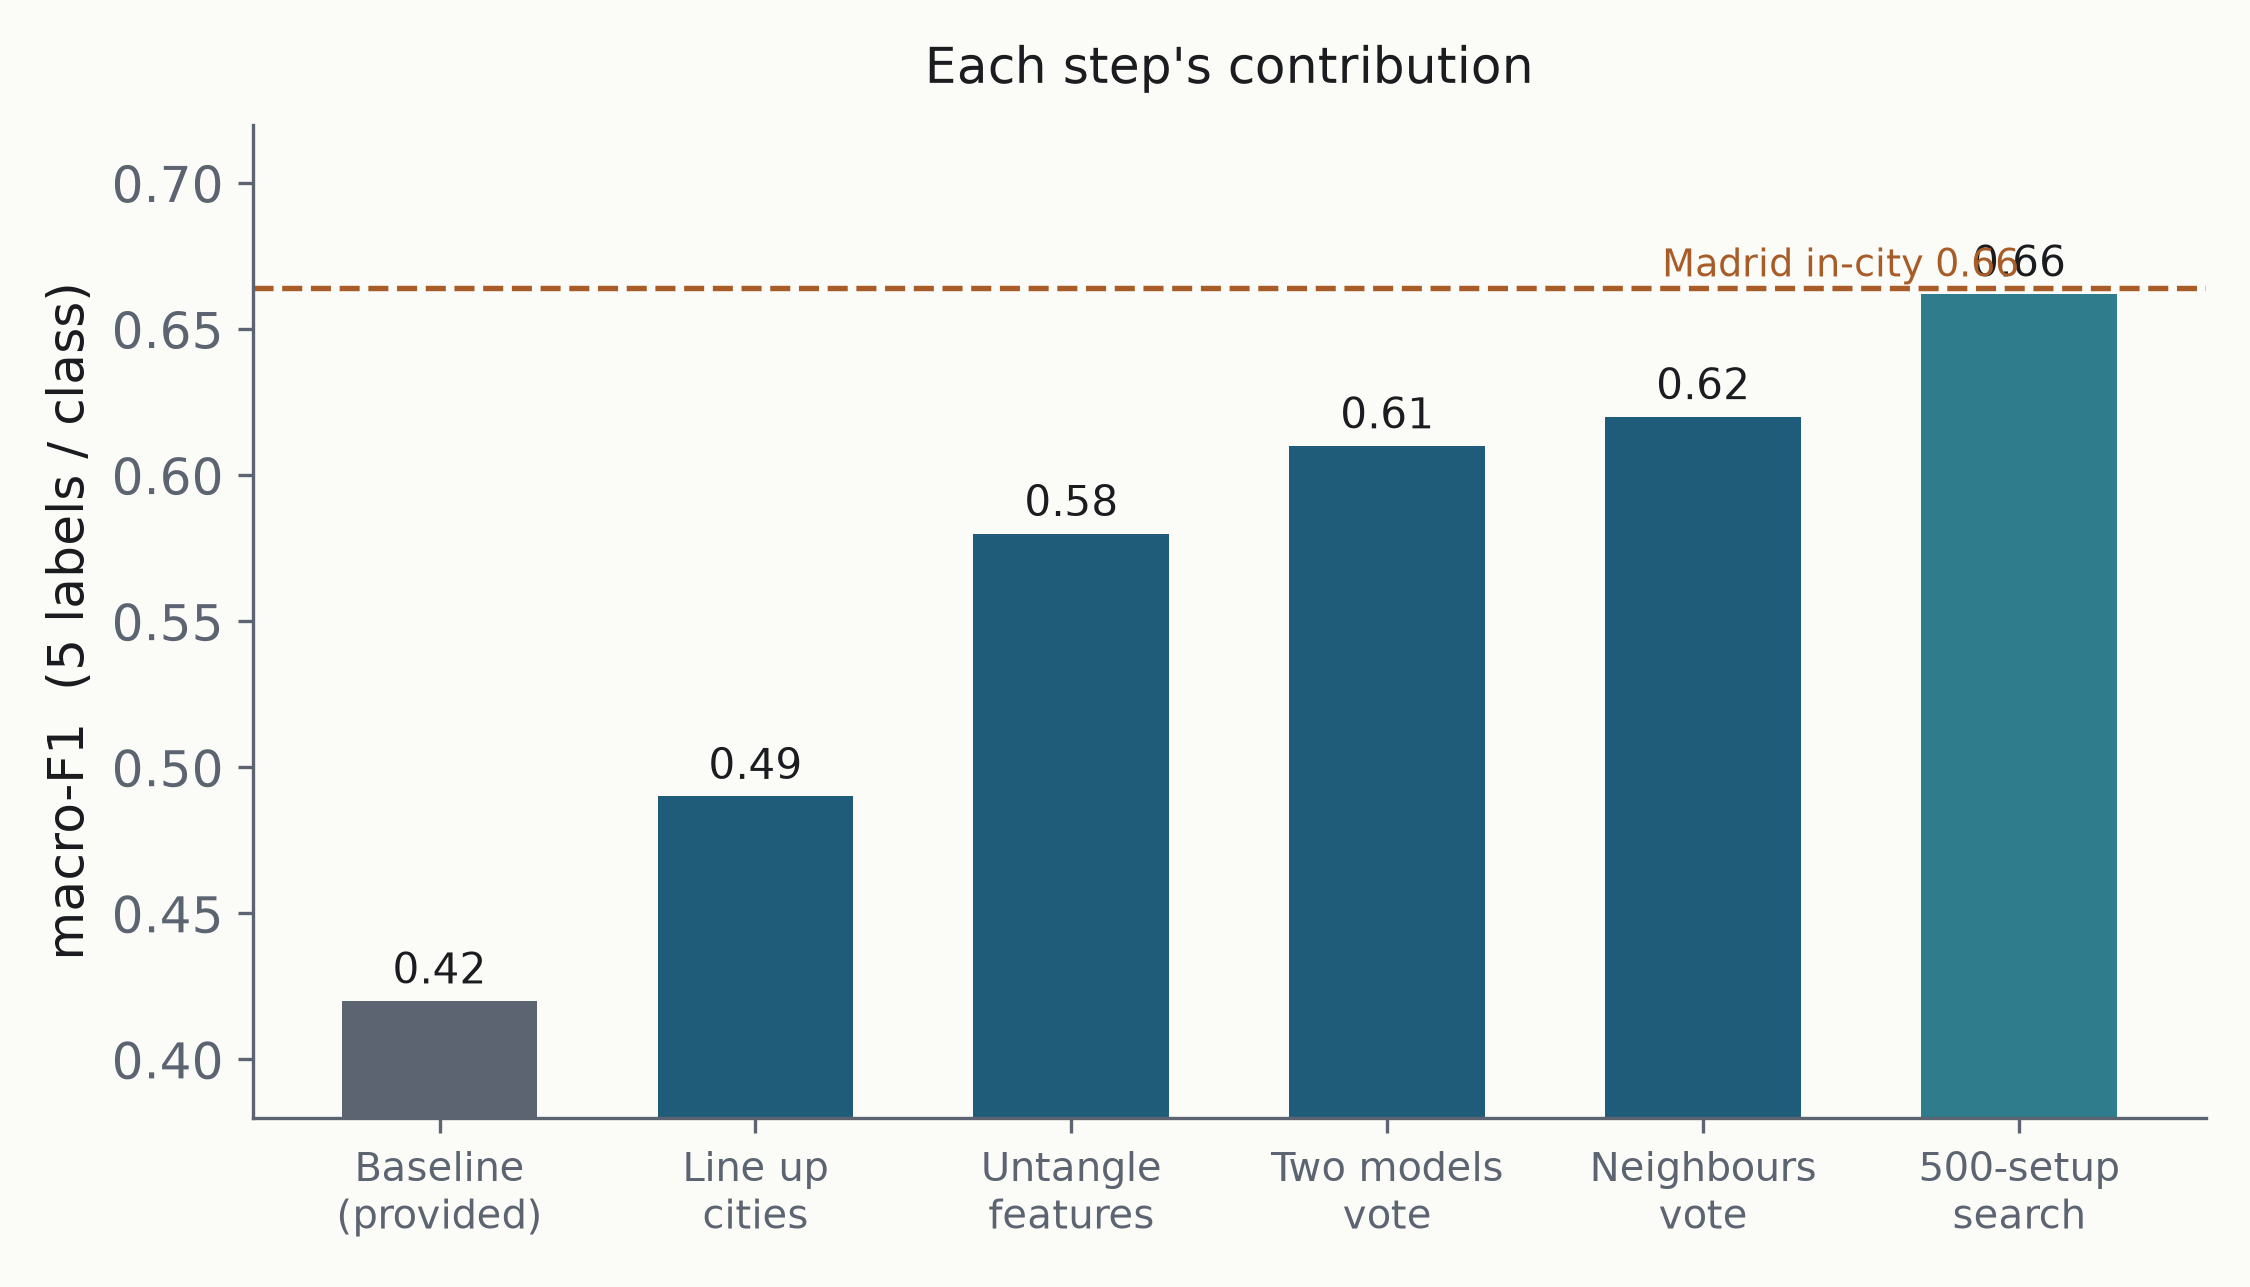
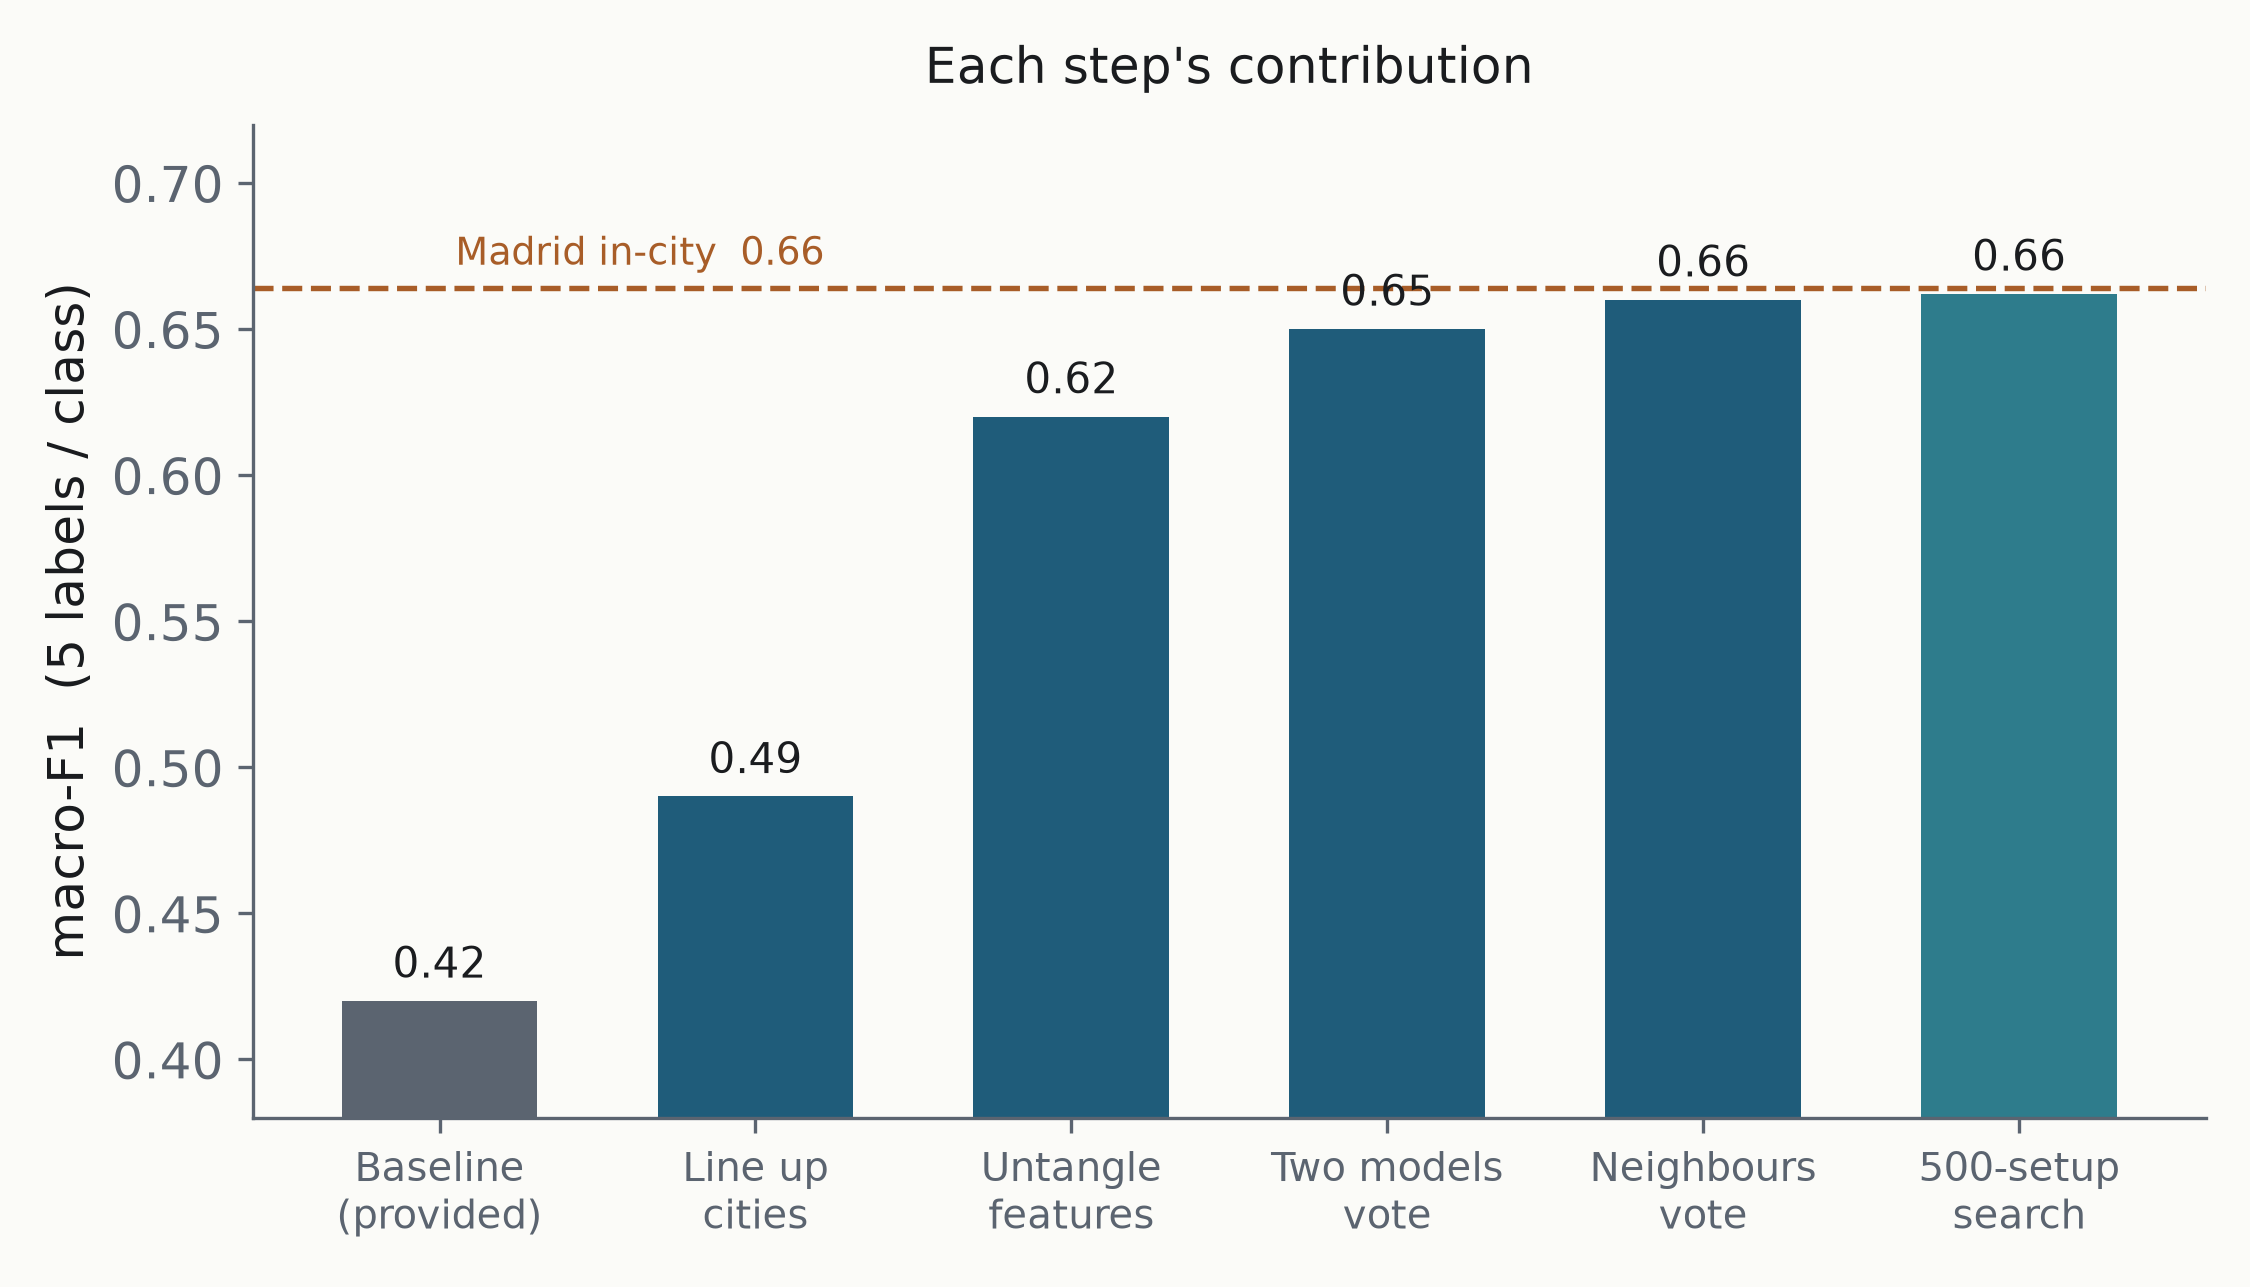
Slide figures: per-class F1 averaged over 15 draws with error bars
Corrects the earlier baseline-era assumption - class 1 (pre-1945) is our
strongest class (~0.78), classes 2-4 cluster near 0.7. No single
unsolvable pair. Gains-chart label overlap fixed.

diff --git a/scripts/make_slide_figures.py b/scripts/make_slide_figures.py
@@ -142,10 +142,10 @@ def scatter():
 def gains():
     steps = [
         ("Baseline\n(provided)", 0.42, MUT),
-        ("Line up\ncities", 0.42 + 0.07, ACC),
-        ("Untangle\nfeatures", 0.42 + 0.07 + 0.09, ACC),
-        ("Two models\nvote", 0.42 + 0.07 + 0.09 + 0.03, ACC),
-        ("Neighbours\nvote", 0.42 + 0.07 + 0.09 + 0.03 + 0.01, ACC),
+        ("Line up\ncities", 0.49, ACC),
+        ("Untangle\nfeatures", 0.62, ACC),
+        ("Two models\nvote", 0.65, ACC),
+        ("Neighbours\nvote", 0.66, ACC),
         ("500-setup\nsearch", 0.662, AMS),
     ]
     fig, ax = plt.subplots(figsize=(8.4, 4.3))
@@ -154,13 +154,13 @@ def gains():
     cols = [c for _, _, c in steps]
     ax.bar(xs, vals, width=.62, color=cols, edgecolor="none")
     for x, v in zip(xs, vals):
-        ax.text(x, v + .006, f"{v:.2f}", ha="center", fontsize=10, color=INK)
+        ax.text(x, v + .008, f"{v:.2f}", ha="center", fontsize=10, color=INK)
     ax.set_xticks(xs)
     ax.set_xticklabels([s for s, _, _ in steps], fontsize=9.5)
     ax.set_ylim(0.38, 0.72)
     ax.set_ylabel("macro-F1  (5 labels / class)")
     ax.axhline(0.664, color=MADRID, ls="--", lw=1.3)
-    ax.text(len(steps) - 1, 0.668, "Madrid in-city 0.66", ha="right", fontsize=9, color=MADRID)
+    ax.text(0.05, 0.672, "Madrid in-city  0.66", ha="left", fontsize=9, color=MADRID)
     ax.spines["top"].set_visible(False); ax.spines["right"].set_visible(False)
     ax.set_title("Each step's contribution", fontsize=12, color=INK, pad=10)
     save(fig, "slide3_gains.png")
@@ -186,23 +186,30 @@ def perclass():
     n = 100
     Z = zca_whiten(a.X, shrink=0.2)(a.X)
     rng = np.random.default_rng(42)
-    sup = np.concatenate([rng.choice(np.where(a.y == c)[0], n, replace=False) for c in cls])
-    q = np.setdiff1d(np.arange(len(a.y)), sup)
-    head = RandomForestClassifier(n_estimators=200, class_weight="balanced",
-                                  random_state=42, n_jobs=-1).fit(Z[sup], a.y[sup])
-    field = 0.9 * head.predict_proba(Z) + 0.1 * prior
-    pred = cls[sm(field)[q].argmax(1)]
-    per = f1_score(a.y[q], pred, average=None, labels=cls)
+    runs = []
+    for _ in range(15):                       # average per-class F1 over draws
+        sup = np.concatenate([rng.choice(np.where(a.y == c)[0], n, replace=False) for c in cls])
+        q = np.setdiff1d(np.arange(len(a.y)), sup)
+        head = RandomForestClassifier(n_estimators=200, class_weight="balanced",
+                                      random_state=42, n_jobs=-1).fit(Z[sup], a.y[sup])
+        field = 0.9 * head.predict_proba(Z) + 0.1 * prior
+        pred = cls[sm(field)[q].argmax(1)]
+        runs.append(f1_score(a.y[q], pred, average=None, labels=cls))
+    per = np.mean(runs, axis=0)
+    err = np.std(runs, axis=0)
 
-    fig, ax = plt.subplots(figsize=(6.4, 4.0))
+    fig, ax = plt.subplots(figsize=(6.6, 4.0))
     names = ["1\npre-1945", "2\n1945-84", "3\n1984-04", "4\n2004-24"]
-    bars = ax.bar(names, per, width=.6,
-                  color=[MADRID, MADRID, AMS, AMS])
+    lo = float(min(per))
+    cols = [MADRID if abs(v - lo) < 1e-9 else AMS for v in per]
+    bars = ax.bar(names, per, yerr=err, width=.6, color=cols,
+                  error_kw=dict(ecolor=MUT, capsize=4, lw=1.2))
     for b, v in zip(bars, per):
-        ax.text(b.get_x() + b.get_width() / 2, v + .01, f"{v:.2f}", ha="center", fontsize=11, color=INK)
-    ax.set_ylim(0, .9); ax.set_ylabel("F1  (100 labels / class)")
+        ax.text(b.get_x() + b.get_width() / 2, v + .04, f"{v:.2f}", ha="center", fontsize=11, color=INK)
+    ax.set_ylim(0, .95); ax.set_ylabel("F1  (100 labels/class, 15 draws)")
     ax.spines["top"].set_visible(False); ax.spines["right"].set_visible(False)
-    ax.set_title("Score per age class — the two oldest are the hard ones",
+    ax.set_title("Class 1 (pre-1945) is the strongest; the others cluster\n"
+                 "near 0.7 — no single unsolvable pair",
                  fontsize=11.5, color=INK, pad=10)
     save(fig, "slide4_perclass.png")
 
